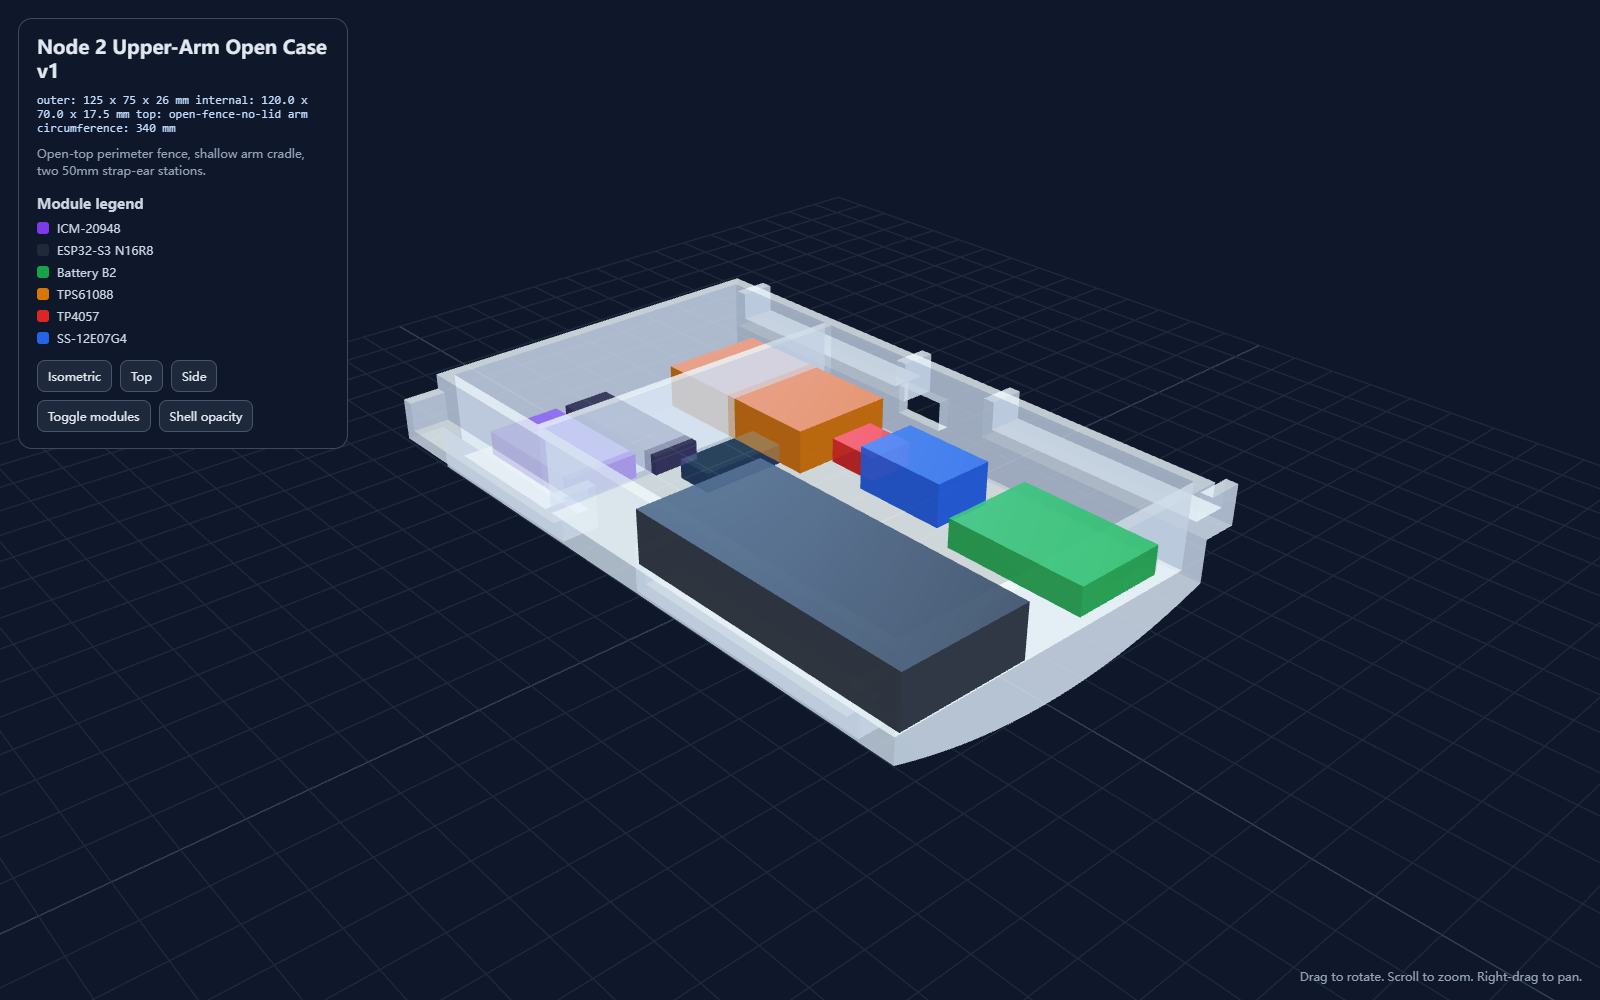
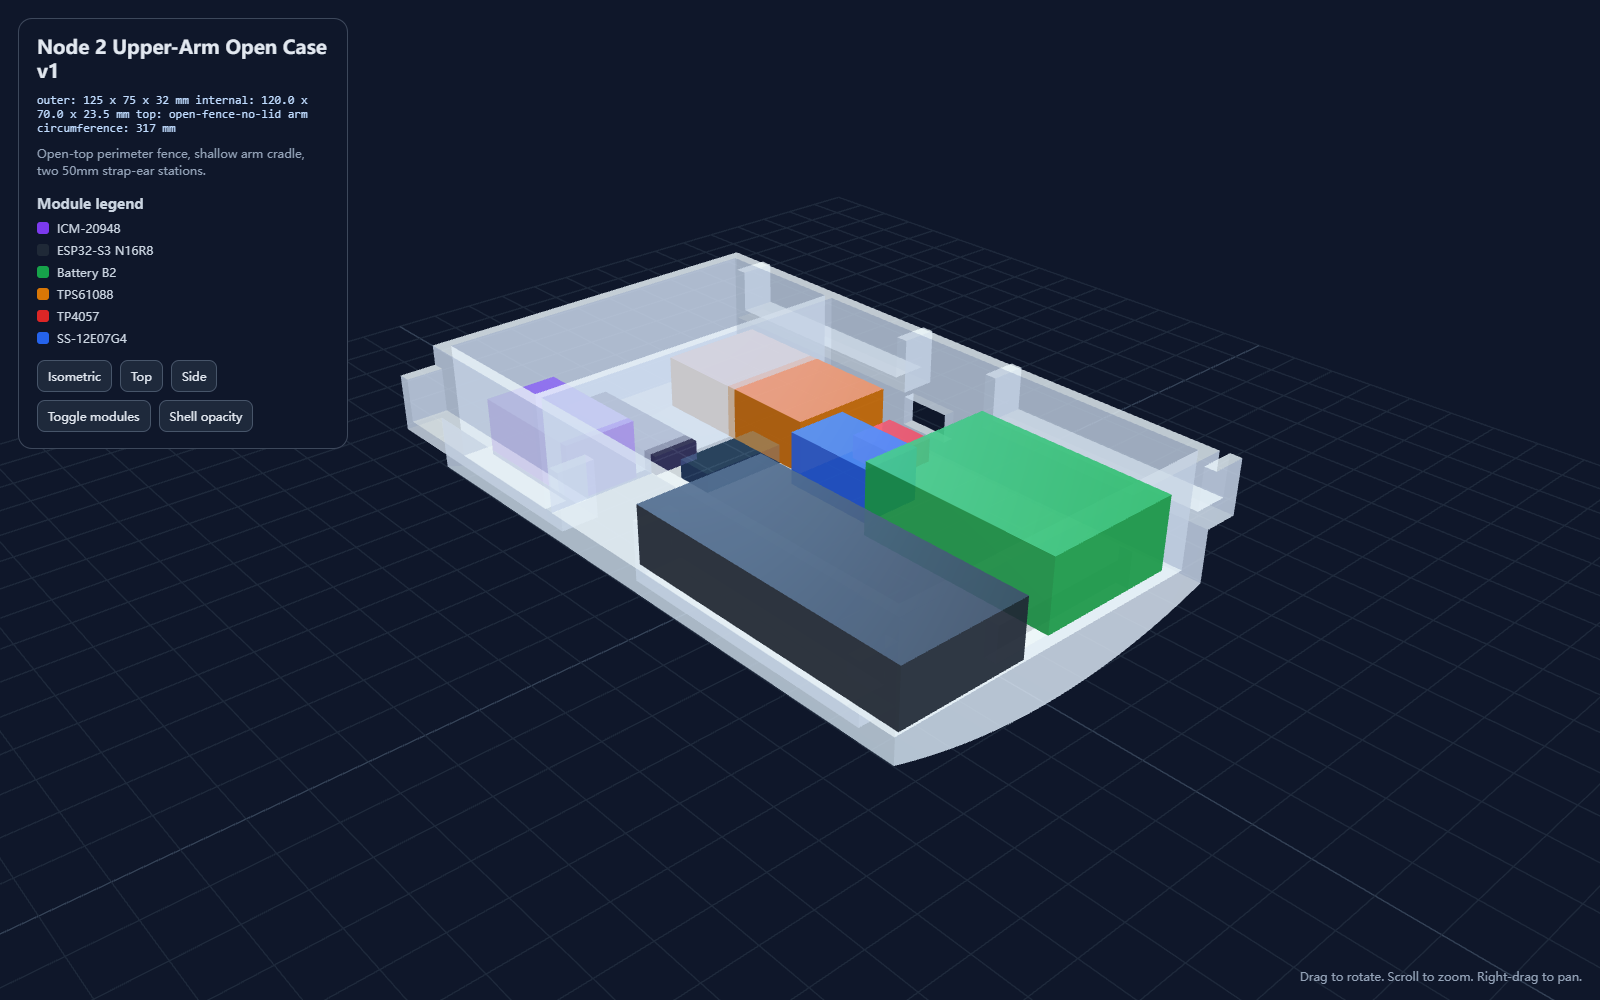
Update Node 2 enclosure with measured dimensions

diff --git a/cad/node2_case/README.md b/cad/node2_case/README.md
@@ -4,10 +4,10 @@ Parametric JSCAD model for the second-node upper-arm enclosure.
 
 ```text
 revision: N2-CASE-OPEN-V1
-body outer size: 125 x 75 x 26 mm
-internal nominal: 120 x 70 x 17.5 mm
+body outer size: 125 x 75 x 32 mm
+internal nominal: 120 x 70 x 23.5 mm
 top: open perimeter fence, no lid
-arm circumference assumption: 340 mm
+arm circumference input: 300 mm relaxed / 317 mm flexed
 bottom cradle sagitta: 6 mm
 strap interface: two external stations, direct 50 mm strap
 ```
@@ -26,6 +26,19 @@ npm run serve
 - `serve`: starts the interactive Three.js viewer.
 
 The shell model excludes electronic modules. Module blocks in the viewer and manifest are mechanical placeholders only.
+
+Measured inputs currently applied:
+
+```text
+lateral upper-arm width: 100 mm
+ESP32 envelope: 63.6 x 27.94 x 12 mm
+TPS61088 maximum height: 11 mm
+battery safe envelope: 43 x 30 x 15 mm
+dual Type-C opening: one 32 x 7 mm rectangular slot
+strap natural / comfortable length: 500 mm / 680-700 mm
+```
+
+The ICM maximum bent height measured by the user is 32 mm. The current model assumes the ICM is laid sideways and its 4P cable is routed flat. Verify the installed height after that routing before the final print; if it exceeds 23.5 mm above the deck, raise the fence parameter.
 
 ## Generated Files
 

diff --git a/docs/hardware/design/node2_open_top_v1/README.md b/docs/hardware/design/node2_open_top_v1/README.md
@@ -18,11 +18,11 @@ cad/node2_case/out/node2_open_top_v1.3mf
 Design summary:
 
 ```text
-body outer size: 125 x 75 x 26 mm
-internal nominal: 120 x 70 x 17.5 mm
+body outer size: 125 x 75 x 32 mm
+internal nominal: 120 x 70 x 23.5 mm
 top: open
 strap stations: two, direct 50 mm strap hooks
-arm circumference: 340 mm
+arm circumference: 300 mm relaxed / 317 mm flexed
 ```
 
 This is a prototype mechanical enclosure. It does not modify the ICM, ESP32, power path, firmware, or software protocol.
